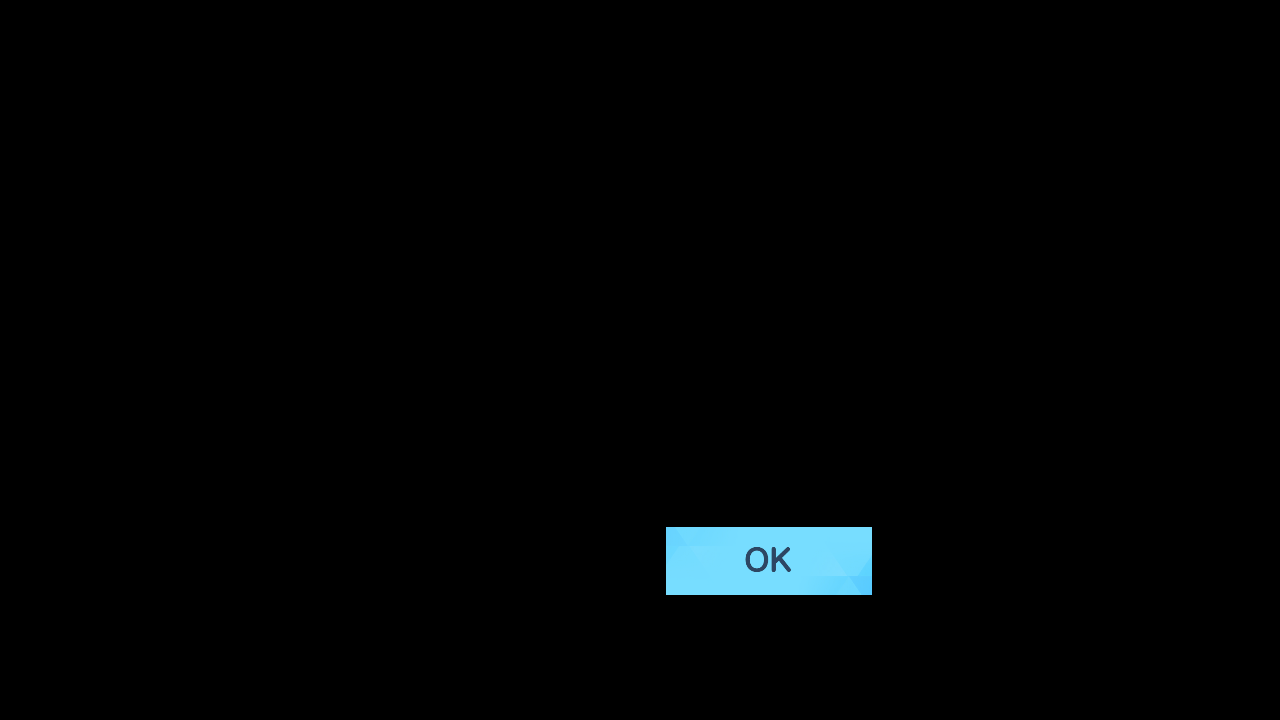
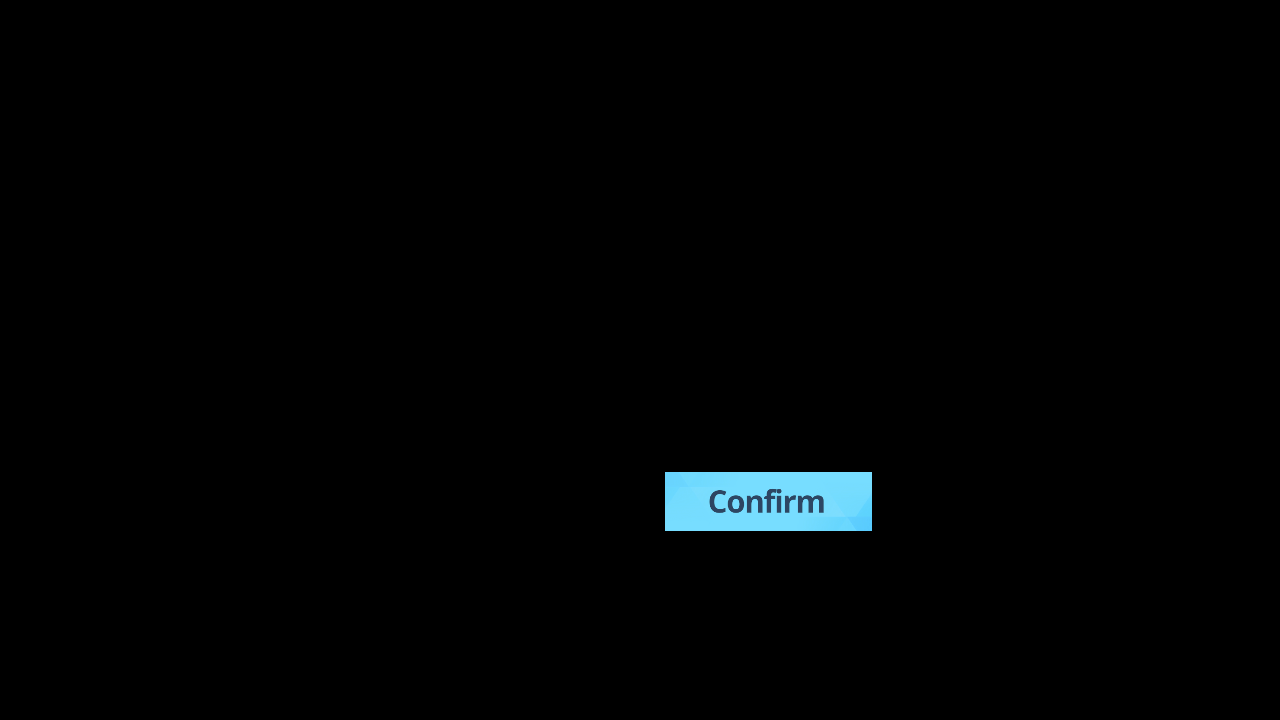
added update images

Changed region(s): [[0.5, 0.6417, 0.6875, 0.825]]

diff --git a/tasks/base/assets/assets_base_popup.py b/tasks/base/assets/assets_base_popup.py
@@ -167,9 +167,9 @@ NETWORK_RECONNECT_OK = ButtonWrapper(
     ),
     en=Button(
         file='./assets/en/base/popup/NETWORK_RECONNECT_OK.png',
-        area=(744, 487, 791, 515),
-        search=(724, 467, 811, 535),
-        color=(91, 165, 196),
-        button=(665, 468, 870, 536),
+        area=(569, 483, 708, 521),
+        search=(549, 463, 728, 541),
+        color=(103, 189, 222),
+        button=(540, 471, 744, 530),
     ),
 )

diff --git a/tasks/login/assets/assets_login.py b/tasks/login/assets/assets_login.py
@@ -48,9 +48,9 @@ UPDATE = ButtonWrapper(
     ),
     en=Button(
         file='./assets/en/login/UPDATE.png',
-        area=(526, 87, 756, 117),
-        search=(506, 67, 776, 137),
-        color=(183, 192, 201),
-        button=(666, 527, 872, 595),
+        area=(446, 258, 686, 301),
+        search=(426, 238, 706, 321),
+        color=(216, 216, 216),
+        button=(665, 472, 872, 531),
     ),
 )
